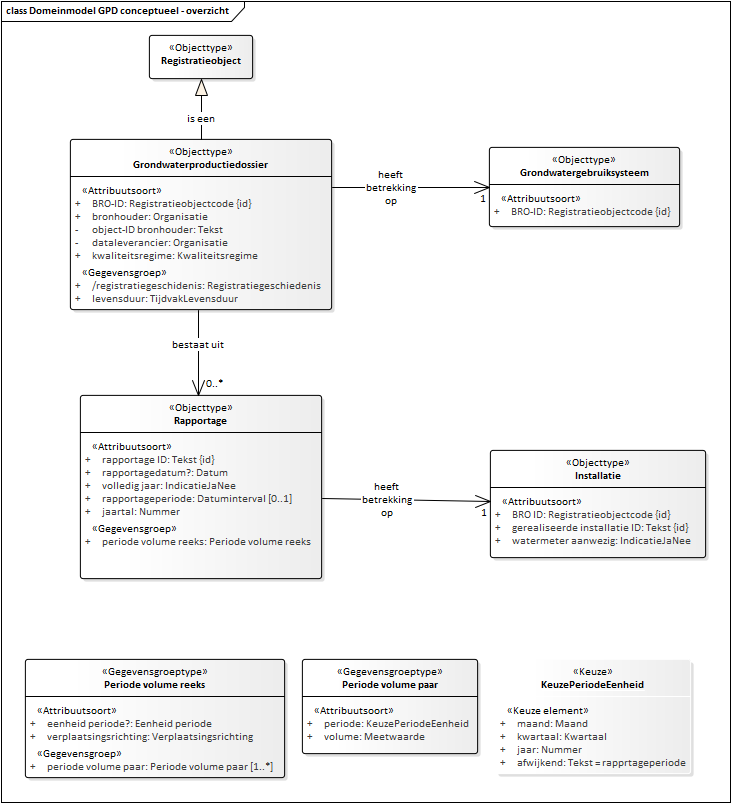
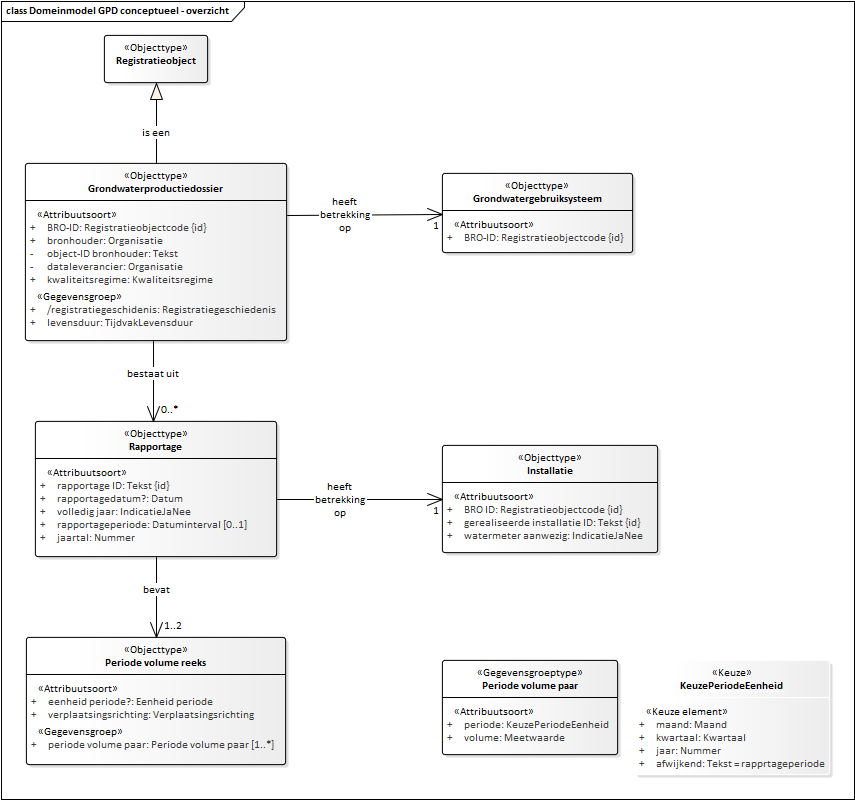
Conceptualmodel-GrondwaterproductiedossierGPDconceptueel-0.1-1-20200401-20210225-084228

Changed region(s): [[0.0, 0.0, 1.0, 1.0]]

diff --git a/data/GPD-cat.msword.html b/data/GPD-cat.msword.html
@@ -15,7 +15,7 @@
    <body>
       <p>Conceptual model/Grondwaterproductiedossier (GPD) conceptueel/20200401</p>
       <p>Imvertor: 1.63.0</p>
-      <p>Model release: Conceptualmodel-GrondwaterproductiedossierGPDconceptueel-0.1-1-20200401-20210225-082413</p>
+      <p>Model release: Conceptualmodel-GrondwaterproductiedossierGPDconceptueel-0.1-1-20200401-20210225-084228</p>
       <hr>
       <section>
          <h1>Artikel 1 Definitie van registratieobject, entiteiten en attributen</h1>
@@ -63,7 +63,7 @@
          <section>
             <h2>Het domeinmodel</h2>
             <section id="">
-               <div class="imageinfo overview"><img src="Images/EAID_D9578C60_D3C8_4660_9BC8_07F4862E13E4.png" usemap="#imagemap-EAID_D9578C60_D3C8_4660_9BC8_07F4862E13E4" alt="Diagram "><map name="imagemap-EAID_D9578C60_D3C8_4660_9BC8_07F4862E13E4"><area shape="rect" alt="Periode volume reeks" coords="25,659,285,778" href="#graph_EAID_79699DAA_2A3D_4c61_867C_72E0F7E8FB60"><area shape="rect" alt="Installatie" coords="490,450,706,558" href="#graph_EAID_704647AE_F1CC_4728_9D47_37161DEA55EE"><area shape="rect" alt="Periode volume paar" coords="302,659,478,754" href="#graph_EAID_6CFA70E7_FFC3_4160_B69C_043617DD5369"><area shape="rect" alt="Grondwatergebruiksysteem" coords="489,147,680,227" href="#graph_EAID_E22AF01A_615D_4c24_ABE3_D3522E0AC66C"><area shape="rect" alt="Rapportage" coords="80,395,322,579" href="#graph_EAID_BFF344A1_AAAC_49e4_817E_130BD5AB501E"><area shape="rect" alt="Grondwaterproductiedossier" coords="70,139,332,310" href="#graph_EAID_A883D376_9CED_4d28_B962_894E6688DC88"><area shape="rect" alt="Registratieobject" coords="149,35,253,79" href="#graph_EAID_1A9F05B6_CB32_4521_93D6_6062B390DB3E"></map><p><b>Domeinmodel GPD conceptueel</b></p>
+               <div class="imageinfo overview"><img src="Images/EAID_D9578C60_D3C8_4660_9BC8_07F4862E13E4.png" usemap="#imagemap-EAID_D9578C60_D3C8_4660_9BC8_07F4862E13E4" alt="Diagram "><map name="imagemap-EAID_D9578C60_D3C8_4660_9BC8_07F4862E13E4"><area shape="rect" alt="Periode volume reeks" coords="26,637,286,765" href="#graph_EAID_79699DAA_2A3D_4c61_867C_72E0F7E8FB60"><area shape="rect" alt="Installatie" coords="442,445,658,553" href="#graph_EAID_704647AE_F1CC_4728_9D47_37161DEA55EE"><area shape="rect" alt="Periode volume paar" coords="442,660,618,755" href="#graph_EAID_6CFA70E7_FFC3_4160_B69C_043617DD5369"><area shape="rect" alt="Grondwatergebruiksysteem" coords="442,173,633,253" href="#graph_EAID_E22AF01A_615D_4c24_ABE3_D3522E0AC66C"><area shape="rect" alt="Rapportage" coords="35,421,277,557" href="#graph_EAID_BFF344A1_AAAC_49e4_817E_130BD5AB501E"><area shape="rect" alt="Grondwaterproductiedossier" coords="25,163,287,341" href="#graph_EAID_A883D376_9CED_4d28_B962_894E6688DC88"><area shape="rect" alt="Registratieobject" coords="104,35,208,83" href="#graph_EAID_1A9F05B6_CB32_4521_93D6_6062B390DB3E"></map><p><b>Domeinmodel GPD conceptueel</b></p>
                </div>
             </section>
          </section>
@@ -341,7 +341,7 @@
                            </tr>
                         </tbody>
                      </table>
-                     </section><a class="anchor" id="detail_d21160e1649"></a><section id="detail_d21160e1649">
+                     </section><a class="anchor" id="detail_d21082e1649"></a><section id="detail_d21082e1649">
                      <h4>  registratiegeschidenis</h4>
                      <table style="width: 100%;">
                         <colgroup style="width: 30%;"></colgroup>
@@ -382,7 +382,7 @@
                            </tr>
                         </tbody>
                      </table>
-                  </section><a class="anchor" id="detail_d21160e1858"></a><section id="detail_d21160e1858">
+                  </section><a class="anchor" id="detail_d21082e1858"></a><section id="detail_d21082e1858">
                      <h4>  levensduur</h4>
                      <table style="width: 100%;">
                         <colgroup style="width: 30%;"></colgroup>
@@ -830,40 +830,7 @@
                            </tr>
                         </tbody>
                      </table>
-                     </section><a class="anchor" id="detail_d21160e3354"></a><section id="detail_d21160e3354">
-                     <h4>  periode volume reeks</h4>
-                     <table style="width: 100%;">
-                        <colgroup style="width: 30%;"></colgroup>
-                        <colgroup style="width: 70%;"></colgroup>
-                        <tbody>
-                           <tr>
-                              <th>Type gegeven</th>
-                              <td>Gegevensgroep van Rapportage</td>
-                           </tr>
-                           <tr>
-                              <th>Definitie</th>
-                              <td>
-                                 
-                                 <p>De kenmerken van de reeks van volumes in combinatie met de bijbehorende periode.</p>
-                                 </td>
-                           </tr>
-                           <tr>
-                              <th>Juridische status</th>
-                              <td>Authentiek</td>
-                           </tr>
-                           <tr>
-                              <th>Kardinaliteit</th>
-                              <td>1</td>
-                           </tr>
-                           <tr>
-                              <th>Doel</th>
-                              <td>
-                                 Periode volume reeks
-                                 </td>
-                           </tr>
-                        </tbody>
-                     </table>
-                  </section><a class="anchor" id="detail_association_Model_Rapportage_gerelateerdeinstallatie"></a><section id="detail_association_Model_Rapportage_gerelateerdeinstallatie">
+                     </section><a class="anchor" id="detail_association_Model_Rapportage_gerelateerdeinstallatie"></a><section id="detail_association_Model_Rapportage_gerelateerdeinstallatie">
                      <h4>  gerelateerde installatie</h4>
                      <table style="width: 100%;">
                         <colgroup style="width: 30%;"></colgroup>
@@ -904,6 +871,51 @@
                               <th>Doel</th>
                               <td>
                                  Installatie
+                                 </td>
+                           </tr>
+                        </tbody>
+                     </table>
+                  </section><a class="anchor" id="detail_association_Model_Rapportage_Gerelateerdereeks"></a><section id="detail_association_Model_Rapportage_Gerelateerdereeks">
+                     <h4>  Gerelateerde reeks</h4>
+                     <table style="width: 100%;">
+                        <colgroup style="width: 30%;"></colgroup>
+                        <colgroup style="width: 70%;"></colgroup>
+                        <tbody>
+                           <tr>
+                              <th>Type gegeven</th>
+                              <td>Associatie van Rapportage</td>
+                           </tr>
+                           <tr>
+                              <th>Definitie</th>
+                              <td>
+                                 
+                                 <p>todo</p>
+                                 </td>
+                           </tr>
+                           <tr>
+                              <th>Juridische status</th>
+                              <td>Authentiek</td>
+                           </tr>
+                           <tr>
+                              <th>Kardinaliteit</th>
+                              <td>1..2</td>
+                           </tr>
+                           <tr>
+                              <th>Relatiesoort naam</th>
+                              <td>bevat</td>
+                           </tr>
+                           <tr>
+                              <th>Relatierol naam</th>
+                              <td>Gerelateerde reeks</td>
+                           </tr>
+                           <tr>
+                              <th>Bron</th>
+                              <td>Rapportage</td>
+                           </tr>
+                           <tr>
+                              <th>Doel</th>
+                              <td>
+                                 Periode volume reeks
                                  </td>
                            </tr>
                         </tbody>
@@ -1172,7 +1184,7 @@
                            </tr>
                         </tbody>
                      </table>
-                     </section><a class="anchor" id="detail_d21160e4443"></a><section id="detail_d21160e4443">
+                     </section><a class="anchor" id="detail_d21082e4410"></a><section id="detail_d21082e4410">
                      <h4>  periode volume paar</h4>
                      <table style="width: 100%;">
                         <colgroup style="width: 30%;"></colgroup>

diff --git a/data/GPD-cat.respec.html b/data/GPD-cat.respec.html
@@ -41,7 +41,7 @@
       </section>
    <section id="">
       <h2>Het domeinmodel   </h2>
-      <div class="imageinfo overview"><img src="data/Images/EAID_D9578C60_D3C8_4660_9BC8_07F4862E13E4.png" usemap="#imagemap-EAID_D9578C60_D3C8_4660_9BC8_07F4862E13E4" alt="Diagram "><map name="imagemap-EAID_D9578C60_D3C8_4660_9BC8_07F4862E13E4"><area shape="rect" alt="Periode volume reeks" coords="25,659,285,778" href="#graph_EAID_79699DAA_2A3D_4c61_867C_72E0F7E8FB60"><area shape="rect" alt="Installatie" coords="490,450,706,558" href="#graph_EAID_704647AE_F1CC_4728_9D47_37161DEA55EE"><area shape="rect" alt="Periode volume paar" coords="302,659,478,754" href="#graph_EAID_6CFA70E7_FFC3_4160_B69C_043617DD5369"><area shape="rect" alt="Grondwatergebruiksysteem" coords="489,147,680,227" href="#graph_EAID_E22AF01A_615D_4c24_ABE3_D3522E0AC66C"><area shape="rect" alt="Rapportage" coords="80,395,322,579" href="#graph_EAID_BFF344A1_AAAC_49e4_817E_130BD5AB501E"><area shape="rect" alt="Grondwaterproductiedossier" coords="70,139,332,310" href="#graph_EAID_A883D376_9CED_4d28_B962_894E6688DC88"><area shape="rect" alt="Registratieobject" coords="149,35,253,79" href="#graph_EAID_1A9F05B6_CB32_4521_93D6_6062B390DB3E"></map><p><b>Domeinmodel GPD conceptueel</b></p>
+      <div class="imageinfo overview"><img src="data/Images/EAID_D9578C60_D3C8_4660_9BC8_07F4862E13E4.png" usemap="#imagemap-EAID_D9578C60_D3C8_4660_9BC8_07F4862E13E4" alt="Diagram "><map name="imagemap-EAID_D9578C60_D3C8_4660_9BC8_07F4862E13E4"><area shape="rect" alt="Periode volume reeks" coords="26,637,286,765" href="#graph_EAID_79699DAA_2A3D_4c61_867C_72E0F7E8FB60"><area shape="rect" alt="Installatie" coords="442,445,658,553" href="#graph_EAID_704647AE_F1CC_4728_9D47_37161DEA55EE"><area shape="rect" alt="Periode volume paar" coords="442,660,618,755" href="#graph_EAID_6CFA70E7_FFC3_4160_B69C_043617DD5369"><area shape="rect" alt="Grondwatergebruiksysteem" coords="442,173,633,253" href="#graph_EAID_E22AF01A_615D_4c24_ABE3_D3522E0AC66C"><area shape="rect" alt="Rapportage" coords="35,421,277,557" href="#graph_EAID_BFF344A1_AAAC_49e4_817E_130BD5AB501E"><area shape="rect" alt="Grondwaterproductiedossier" coords="25,163,287,341" href="#graph_EAID_A883D376_9CED_4d28_B962_894E6688DC88"><area shape="rect" alt="Registratieobject" coords="104,35,208,83" href="#graph_EAID_1A9F05B6_CB32_4521_93D6_6062B390DB3E"></map><p><b>Domeinmodel GPD conceptueel</b></p>
       </div>
    </section>
    <section id="">
@@ -317,7 +317,7 @@
                   </tr>
                </tbody>
             </table>
-            </section><a class="anchor" id="detail_d21160e1649"></a><section id="detail_d21160e1649">
+            </section><a class="anchor" id="detail_d21082e1649"></a><section id="detail_d21082e1649">
             <h4>  registratiegeschidenis</h4>
             <table style="width: 100%;">
                <colgroup style="width: 30%;"></colgroup>
@@ -358,7 +358,7 @@
                   </tr>
                </tbody>
             </table>
-         </section><a class="anchor" id="detail_d21160e1858"></a><section id="detail_d21160e1858">
+         </section><a class="anchor" id="detail_d21082e1858"></a><section id="detail_d21082e1858">
             <h4>  levensduur</h4>
             <table style="width: 100%;">
                <colgroup style="width: 30%;"></colgroup>
@@ -806,40 +806,7 @@
                   </tr>
                </tbody>
             </table>
-            </section><a class="anchor" id="detail_d21160e3354"></a><section id="detail_d21160e3354">
-            <h4>  periode volume reeks</h4>
-            <table style="width: 100%;">
-               <colgroup style="width: 30%;"></colgroup>
-               <colgroup style="width: 70%;"></colgroup>
-               <tbody>
-                  <tr>
-                     <th>Type gegeven</th>
-                     <td>Gegevensgroep van Rapportage</td>
-                  </tr>
-                  <tr>
-                     <th>Definitie</th>
-                     <td>
-                        
-                        <p>De kenmerken van de reeks van volumes in combinatie met de bijbehorende periode.</p>
-                        </td>
-                  </tr>
-                  <tr>
-                     <th>Juridische status</th>
-                     <td>Authentiek</td>
-                  </tr>
-                  <tr>
-                     <th>Kardinaliteit</th>
-                     <td>1</td>
-                  </tr>
-                  <tr>
-                     <th>Doel</th>
-                     <td>
-                        Periode volume reeks
-                        </td>
-                  </tr>
-               </tbody>
-            </table>
-         </section><a class="anchor" id="detail_association_Model_Rapportage_gerelateerdeinstallatie"></a><section id="detail_association_Model_Rapportage_gerelateerdeinstallatie">
+            </section><a class="anchor" id="detail_association_Model_Rapportage_gerelateerdeinstallatie"></a><section id="detail_association_Model_Rapportage_gerelateerdeinstallatie">
             <h4>  gerelateerde installatie</h4>
             <table style="width: 100%;">
                <colgroup style="width: 30%;"></colgroup>
@@ -880,6 +847,51 @@
                      <th>Doel</th>
                      <td>
                         Installatie
+                        </td>
+                  </tr>
+               </tbody>
+            </table>
+         </section><a class="anchor" id="detail_association_Model_Rapportage_Gerelateerdereeks"></a><section id="detail_association_Model_Rapportage_Gerelateerdereeks">
+            <h4>  Gerelateerde reeks</h4>
+            <table style="width: 100%;">
+               <colgroup style="width: 30%;"></colgroup>
+               <colgroup style="width: 70%;"></colgroup>
+               <tbody>
+                  <tr>
+                     <th>Type gegeven</th>
+                     <td>Associatie van Rapportage</td>
+                  </tr>
+                  <tr>
+                     <th>Definitie</th>
+                     <td>
+                        
+                        <p>todo</p>
+                        </td>
+                  </tr>
+                  <tr>
+                     <th>Juridische status</th>
+                     <td>Authentiek</td>
+                  </tr>
+                  <tr>
+                     <th>Kardinaliteit</th>
+                     <td>1..2</td>
+                  </tr>
+                  <tr>
+                     <th>Relatiesoort naam</th>
+                     <td>bevat</td>
+                  </tr>
+                  <tr>
+                     <th>Relatierol naam</th>
+                     <td>Gerelateerde reeks</td>
+                  </tr>
+                  <tr>
+                     <th>Bron</th>
+                     <td>Rapportage</td>
+                  </tr>
+                  <tr>
+                     <th>Doel</th>
+                     <td>
+                        Periode volume reeks
                         </td>
                   </tr>
                </tbody>
@@ -1148,7 +1160,7 @@
                   </tr>
                </tbody>
             </table>
-            </section><a class="anchor" id="detail_d21160e4443"></a><section id="detail_d21160e4443">
+            </section><a class="anchor" id="detail_d21082e4410"></a><section id="detail_d21082e4410">
             <h4>  periode volume paar</h4>
             <table style="width: 100%;">
                <colgroup style="width: 30%;"></colgroup>
